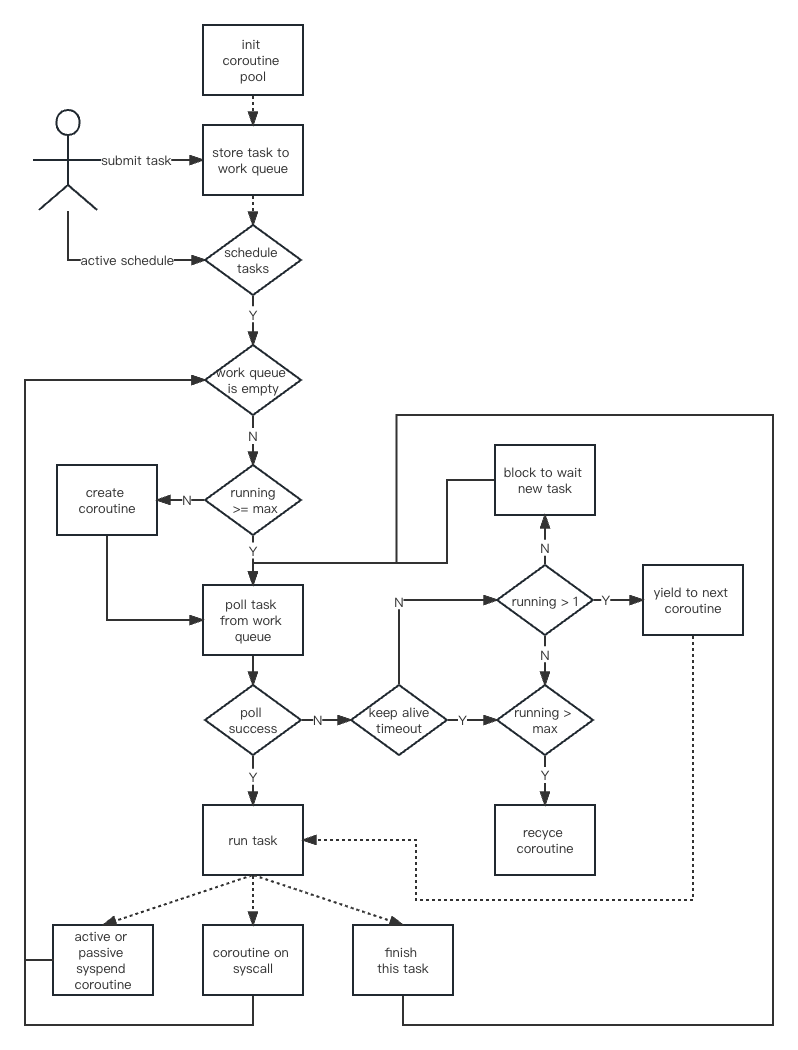
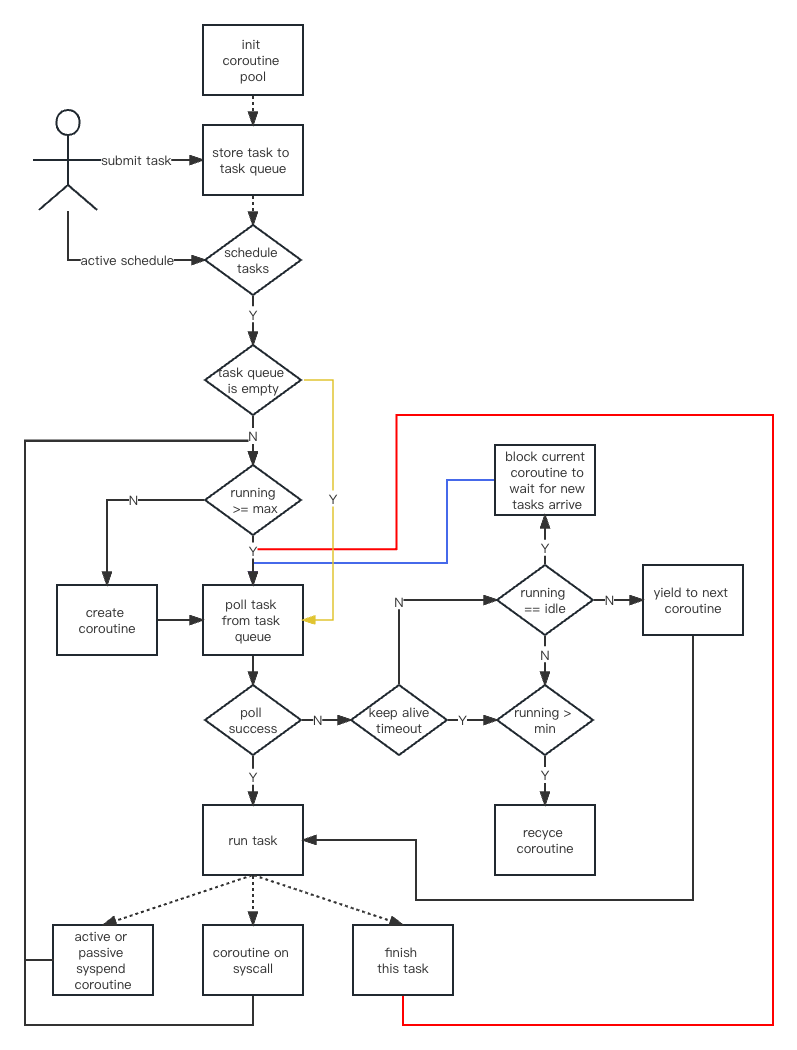
add idle

diff --git a/open-coroutine-core/src/pool/mod.rs b/open-coroutine-core/src/pool/mod.rs
@@ -21,13 +21,15 @@ static mut RESULT_TABLE: Lazy<HashMap<&str, usize>> = Lazy::new(HashMap::new);
 #[derive(Debug)]
 pub struct CoroutinePool {
     //任务队列
-    work_queue: Injector<Task<'static>>,
+    task_queue: Injector<Task<'static>>,
     //工作协程组
     workers: Scheduler,
     //协程栈大小
     stack_size: usize,
     //当前协程数
     running: AtomicUsize,
+    //当前空闲协程数
+    idle: AtomicUsize,
     //最小协程数，即核心协程数
     min_size: usize,
     //最大协程数
@@ -36,6 +38,7 @@ pub struct CoroutinePool {
     keep_alive_time: u64,
     //阻滞器
     blocker: &'static dyn Blocker,
+    //是否已初始化协程创建器
     inited: AtomicBool,
 }
 
@@ -51,9 +54,10 @@ impl CoroutinePool {
             workers: Scheduler::new(),
             stack_size,
             running: AtomicUsize::new(0),
+            idle: AtomicUsize::new(0),
             min_size,
             max_size,
-            work_queue: Injector::default(),
+            task_queue: Injector::default(),
             keep_alive_time,
             blocker: Box::leak(Box::new(blocker)),
             inited: AtomicBool::new(false),
@@ -66,12 +70,12 @@ impl CoroutinePool {
     ) -> &'static str {
         let name: Box<str> = Box::from(Uuid::new_v4().to_string());
         let clone = Box::leak(name.clone());
-        self.work_queue.push(Task::new(name, f));
+        self.task_queue.push(Task::new(name, f));
         clone
     }
 
     fn grow(&'static self) -> std::io::Result<()> {
-        if self.work_queue.is_empty() {
+        if self.task_queue.is_empty() {
             return Ok(());
         }
         if self.running.load(Ordering::Acquire) >= self.max_size {
@@ -81,23 +85,31 @@ impl CoroutinePool {
         _ = self.workers.submit(
             move |suspender, _| {
                 loop {
-                    match self.work_queue.steal() {
+                    match self.task_queue.steal() {
                         Steal::Empty => {
                             let running = self.running.load(Ordering::Acquire);
-                            let keep_alive =
-                                open_coroutine_timer::now() - create_time < self.keep_alive_time;
-                            if running > self.min_size && !keep_alive {
+                            if open_coroutine_timer::now() - create_time >= self.keep_alive_time
+                                && running > self.min_size
+                            {
                                 //回收worker协程
                                 _ = self.running.fetch_sub(1, Ordering::Release);
+                                _ = self.idle.fetch_sub(1, Ordering::Release);
                                 return 0;
                             }
-                            if running > 1 {
-                                suspender.delay(Duration::from_millis(1));
-                            } else {
+                            _ = self.idle.fetch_add(1, Ordering::Release);
+                            let idle = self.idle.load(Ordering::Acquire);
+                            if running > idle {
+                                //让出CPU给下一个协程
+                                suspender.suspend();
+                            } else if running == idle {
+                                //避免CPU在N个无任务的协程中空转
                                 self.blocker.block(Duration::from_millis(1));
+                            } else {
+                                unreachable!("should never execute to here");
                             }
                         }
                         Steal::Success(task) => {
+                            _ = self.idle.fetch_sub(1, Ordering::Release);
                             let task_name = task.get_name();
                             let result = task.run(suspender);
                             unsafe { assert!(RESULT_TABLE.insert(task_name, result).is_none()) }
